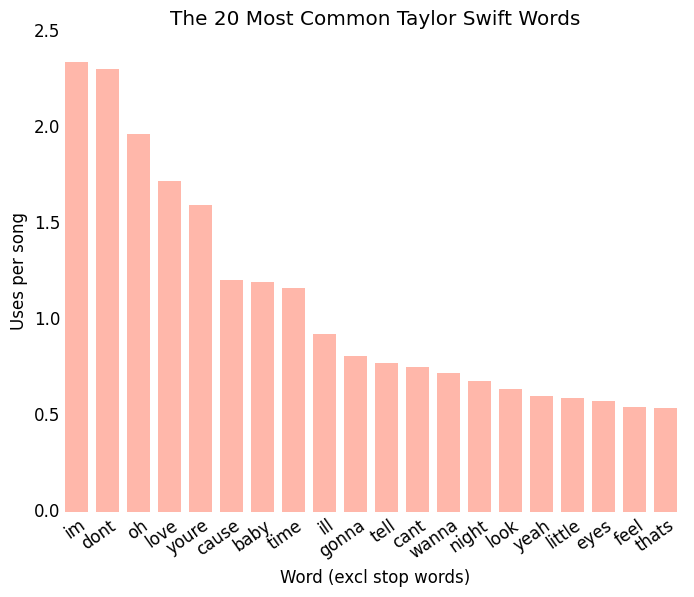
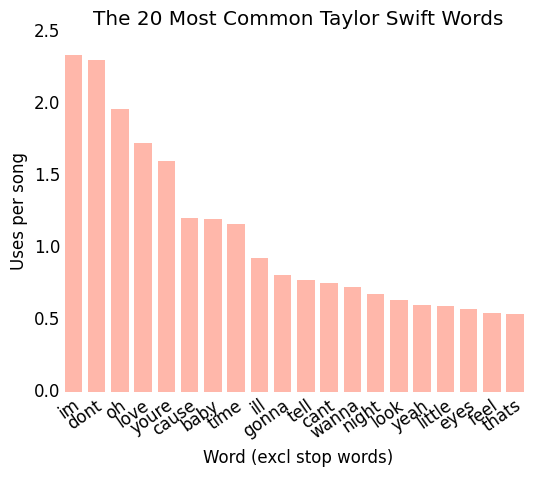
Reduce figure size

Changed region(s): [[0.0, 0.0294, 0.9796, 0.9979], [0.1781, 0.0, 0.9499, 0.0587]]

diff --git a/analyze_soln.py b/analyze_soln.py
@@ -61,7 +61,7 @@ def make_txt_alllyrics():
             f.write(song['lyrics'])
 
 def plot_bar_chart(values, labels):
-    fig, ax = plt.subplots(figsize=(8,6))
+    fig, ax = plt.subplots(figsize=(6,4.5))
     N = len(values)
     ind = np.arange(N)
     width = 0.75
